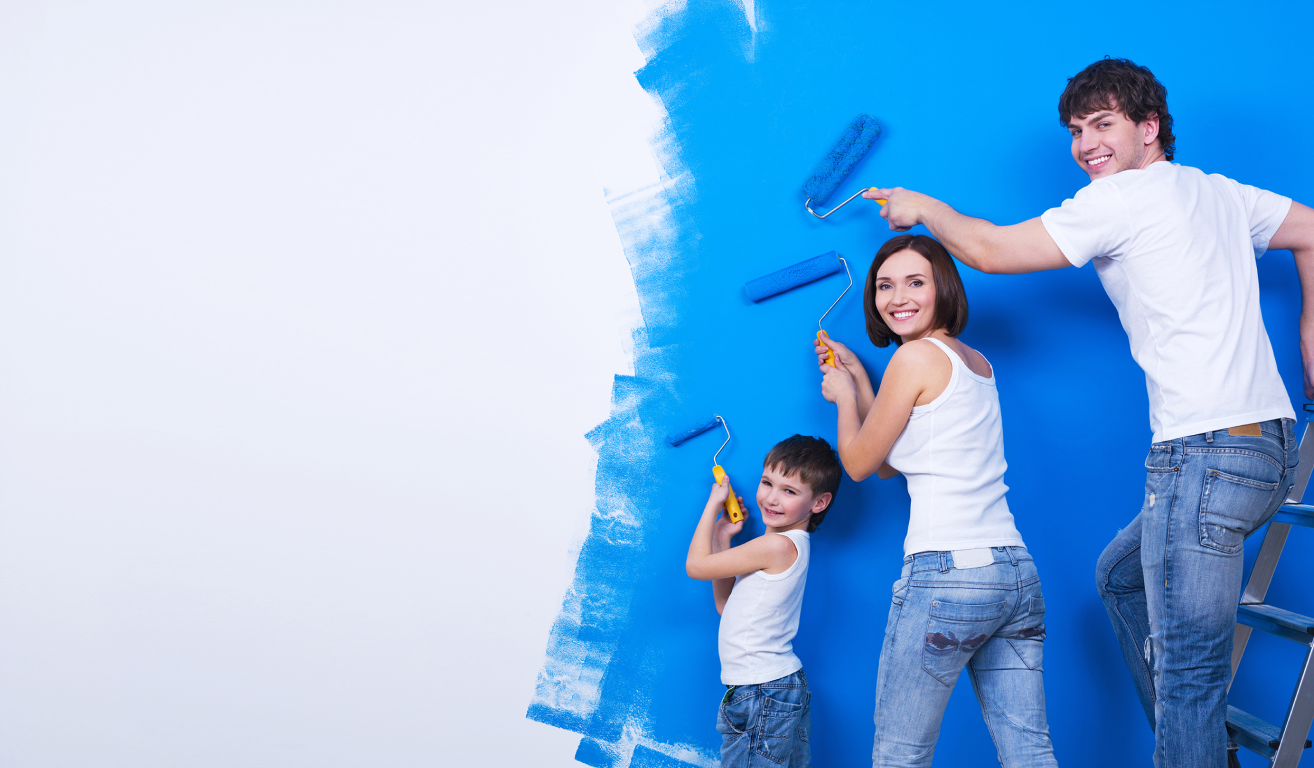
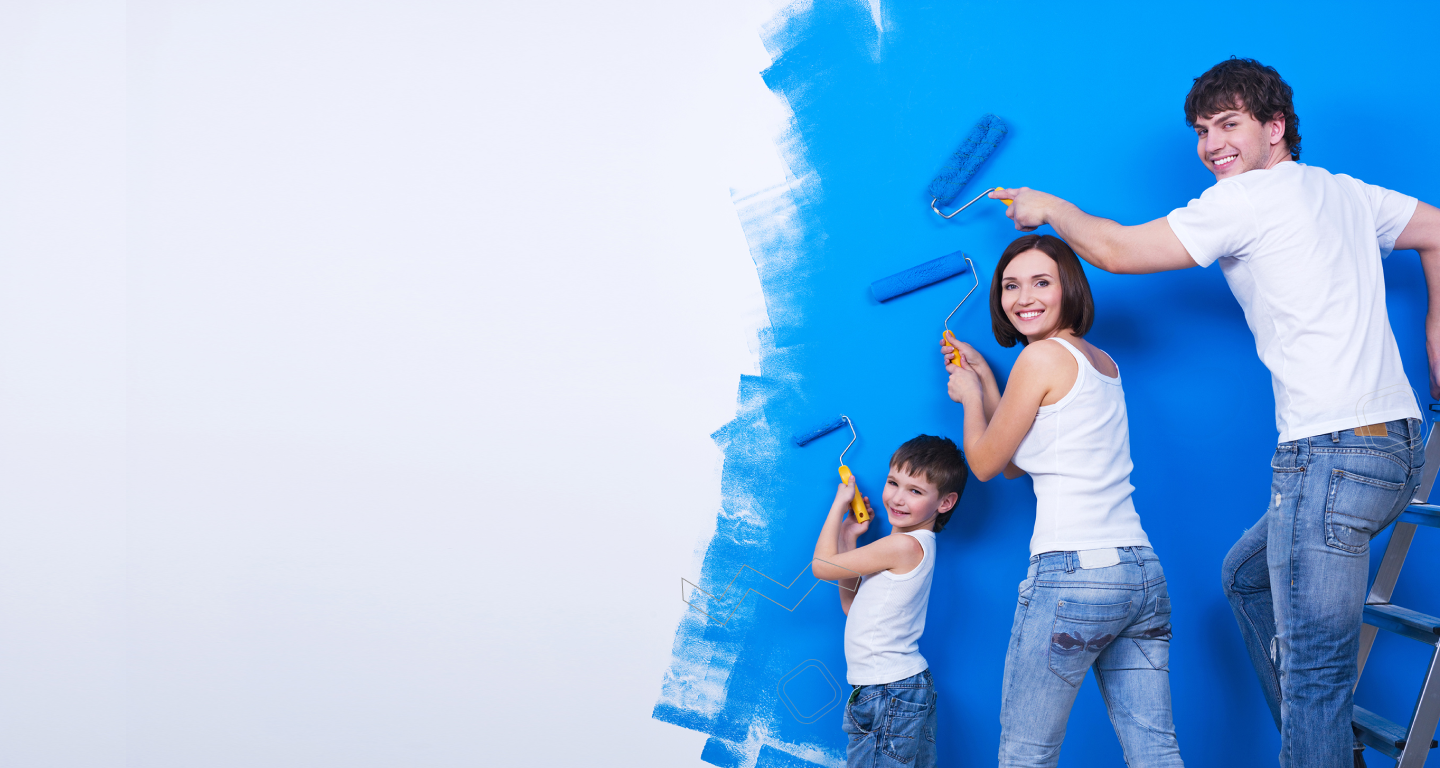
imagen header móvil

Changed region(s): [[0.4056, 0.0, 0.9985, 1.0], [0.9049, 0.2188, 0.9673, 0.25], [0.9673, 0.25, 0.9985, 0.2812]]

diff --git a/landingpage-1.html b/landingpage-1.html
@@ -13,11 +13,14 @@
   <title>Kunin</title>
 </head>
 <body>
-  <header class="pt-4 pt-md-5 imagen-header">
-    <img src="assets/img/logo.png" alt="" class="logo img-fluid">
-    <h1><span class="azul">Ahorra e invierte</span> de<br>forma simple y a tu<br>medida.</h1>
-    <p class="parrafo-header">Genera hábitos de ahorro, reduce tu<br>ansiedad financiera y cumple tus sueños.</p>
-    <button class="btn rounded-pill fondo-azul px-5">Quiero saber más</button>
+  <header class="color-fondo">
+    <div class="pt-4 pt-md-5 imagen-header">
+      <img src="assets/img/logo.png" alt="" class="logo img-fluid">
+      <h1><span class="azul">Ahorra e invierte</span> de<br>forma simple y a tu<br>medida.</h1>
+      <p class="parrafo-header">Genera hábitos de ahorro, reduce tu<br>ansiedad financiera y cumple tus sueños.</p>
+      <button class="btn btn-lg rounded-pill fondo-azul px-5">Quiero saber más</button>
+    </div>
+    <img src="assets/img/imagen-header-movil.png" alt="" class="d-sm-none img-fluid">
   </header>
 
   <section class="imagen-planifica p-4 p-lg-5">
@@ -50,8 +53,8 @@
     <div class="row pl-3 pl-md-0 pt-lg-5 pt-lg-0 mt-lg-5 pr-lg-5">
       <div class="col-12 col-md-6 d-none d-md-inline-block"></div>
       <div class="col-12 col-md-6 text-right pt-md-5 pb-md-3 pb-lg-5 mt-md-3 pl-lg-5 pr-0">
-        <h3 class="h3-main pl-4 pl-md-0 pl-lg-5 ml-0 ml-md-0 ml-lg-5 mb-0 mr-lg-5">Logra tus objetivos y recupera el control de tus finanzas con recomendaciones personalizadas e implementables en un solo click.</h3>
-        <button class="btn rounded-pill fondo-azul px-3 px-md-5 mr-lg-5">Quiero saber más</button>
+        <h3 class="h3-main pl-4 pl-md-0 pl-lg-5 ml-0 ml-md-0 ml-lg-5 mb-0 mr-lg-5">Logra tus objetivos y recupera el control de tus finanzas con recomendaciones personalizadas e implementables<br>en un solo click.</h3>
+        <button class="btn btn-lg rounded-pill fondo-azul px-3 px-md-5 mr-lg-5">Quiero saber más</button>
       </div>
     </div> 
     <div class="d-none d-lg-block">

diff --git a/assets/css/style.css b/assets/css/style.css
@@ -21,11 +21,15 @@ body {
   }
 }
 
+.color-fondo {
+  background-color: #D7DDEB;
+}
+
 .imagen-header {
   background-image: url(../img/imagen-header.png);
   background-repeat: no-repeat;
   background-size: cover;
-  background-position: center; 
+  background-position: left; 
   padding-left: 1.5rem;
 }
 @media all and (min-width: 768px) {
@@ -46,7 +50,6 @@ h1 {
 }
 @media all and (min-width: 768px) {
   h1 {
-    font-weight: 600;
     margin-top: 5rem;
     margin-bottom: 3rem;
     font-size: 3.7rem;
@@ -172,7 +175,7 @@ h1 {
   background-image: url(../img/imagen-header-2.jpg);
   background-repeat: no-repeat;
   background-size: cover;
-  background-position: center; 
+  background-position: left; 
   padding-left: 1.5rem;
 }
 @media all and (min-width: 768px) {
@@ -240,6 +243,11 @@ h1 {
     padding-left: 4rem;
   }
 }
+@media all and (min-width: 1600px) {
+  .imagen-header-contacto {
+    padding-left: 7rem;
+  }
+}
 
 .h1-header-contacto {
   font-size: 1.9rem;
@@ -254,6 +262,11 @@ h1 {
   .h1-header-contacto {
     font-size: 3.7rem;
     margin-bottom: 4rem;
+  }
+}
+@media all and (min-width: 1600px) {
+  .h1-header-contacto {
+    font-size: 4.5rem;
   }
 }
 
@@ -301,6 +314,11 @@ h1 {
 @media all and (min-width: 768px) {
   .parrafo-contacto {
     font-size: 1.1rem;
+  }
+}
+@media all and (min-width: 1600px) {
+  .parrafo-contacto {
+    font-size: 1.5rem;
   }
 }
 

diff --git a/landingpage-3.html b/landingpage-3.html
@@ -18,6 +18,7 @@
     <h1 class="d-md-none">Invierte de forma<br><span class="azul">simple y segura</span><br>con nuestro recomendador<br>financiero</h1>
     <h1 class="d-none d-md-block">Invierte de forma<br><span class="azul">simple y segura</span> con<br>nuestro recomendador<br>financiero</h1>
     <button class="btn rounded-pill fondo-azul-2 px-5">Quiero saber más</button>
+    <img src="assets/img/imagen-header-3-movil.png" alt="" class="d-sm-none img-fluid pr-4 mb-5 pb-4">
   </header>
 
   <section class="imagen-planifica p-4 p-lg-5">
@@ -43,7 +44,7 @@
     <div class="row pl-3 pl-md-0 pt-lg-5 pt-lg-0 mt-lg-5 pr-lg-5">
       <div class="col-12 col-md-6 d-none d-md-inline-block"></div>
       <div class="col-12 col-md-6 text-right pt-md-5 pb-md-3 pb-lg-5 mt-md-3 pl-lg-5 pr-0">
-        <h3 class="h3-main pl-4 pl-md-0 pl-lg-5 ml-0 ml-md-0 ml-lg-5 mb-0 mr-lg-5">Logra tus objetivos y recupera el control de tus finanzas con recomendaciones personalizadas e implementables en un solo click.</h3>
+        <h3 class="h3-main pl-4 pl-md-0 pl-lg-5 ml-0 ml-md-0 ml-lg-5 mb-0 mr-lg-5">Logra tus objetivos y recupera el control de tus finanzas con recomendaciones personalizadas e implementables<br>en un solo click.</h3>
         <button class="btn rounded-pill fondo-azul px-3 px-md-5 mr-lg-5">Quiero saber más</button>
       </div>
     </div> 

diff --git a/landingpage-2.html b/landingpage-2.html
@@ -18,6 +18,7 @@
     <h1><span class="azul">Invierte</span> de forma<br>simple y a tu<br>medida.</h1>
     <p class="parrafo-header pr-5 mr-5">Invierte en un click y cumple tus sueños.</p>
     <button class="btn rounded-pill fondo-azul-2 px-5">Quiero saber más</button>
+    <img src="assets/img/imagen-header-2-movil.png" alt="" class="d-sm-none img-fluid pr-4 mb-5 pb-4">
   </header>
 
   <section class="imagen-planifica p-4 p-lg-5">
@@ -43,7 +44,7 @@
     <div class="row pl-3 pl-md-0 pt-lg-5 pt-lg-0 mt-lg-5 pr-lg-5">
       <div class="col-12 col-md-6 d-none d-md-inline-block"></div>
       <div class="col-12 col-md-6 text-right pt-md-5 pb-md-3 pb-lg-5 mt-md-3 pl-lg-5 pr-0">
-        <h3 class="h3-main pl-4 pl-md-0 pl-lg-5 ml-0 ml-md-0 ml-lg-5 mb-0 mr-lg-5">Logra tus objetivos y recupera el control de tus finanzas con recomendaciones personalizadas e implementables en un solo click.</h3>
+        <h3 class="h3-main pl-4 pl-md-0 pl-lg-5 ml-0 ml-md-0 ml-lg-5 mb-0 mr-lg-5">Logra tus objetivos y recupera el control de tus finanzas con recomendaciones personalizadas e implementables<br>en un solo click.</h3>
         <button class="btn rounded-pill fondo-azul px-3 px-md-5 mr-lg-5">Quiero saber más</button>
       </div>
     </div> 
